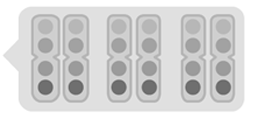
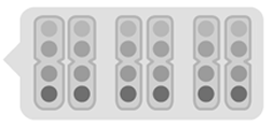
embiggen chromo panels a bit

diff --git a/app/static/css/chromosomes.css b/app/static/css/chromosomes.css
@@ -1,12 +1,12 @@
 .chromosome-panel {
   position: absolute;
-  top: 30px;
-  left: 745px;
-  width: 255px;
+  top: 15px;
+  left: 740px;
+  width: 265px;
   height: 125px;
 }
 #parent-mothers-pool-container .chromosome-panel {
-  top: 140px;
+  top: 135px;
 }
 
 .chromosome {
@@ -21,22 +21,22 @@
   background: top left no-repeat url('../images/female-chromo.png');
 }
 .chromosome {
-  top: 19px;
+  top: 20px;
 }
 .chromosome.right {
-  padding-left: 30px;
+  padding-left: 31px;
 }
 .chromo-1 {
-  left: 32px;
+  left: 36px;
 }
 .chromo-2 {
-  left: 105px;
+  left: 115px;
 }
 .chromo-X {
-  left: 178px;
+  left: 193px;
 }
 .chromo-Y {
-  left: 178px;
+  left: 193px;
   padding-left: 30px;
 }
 
